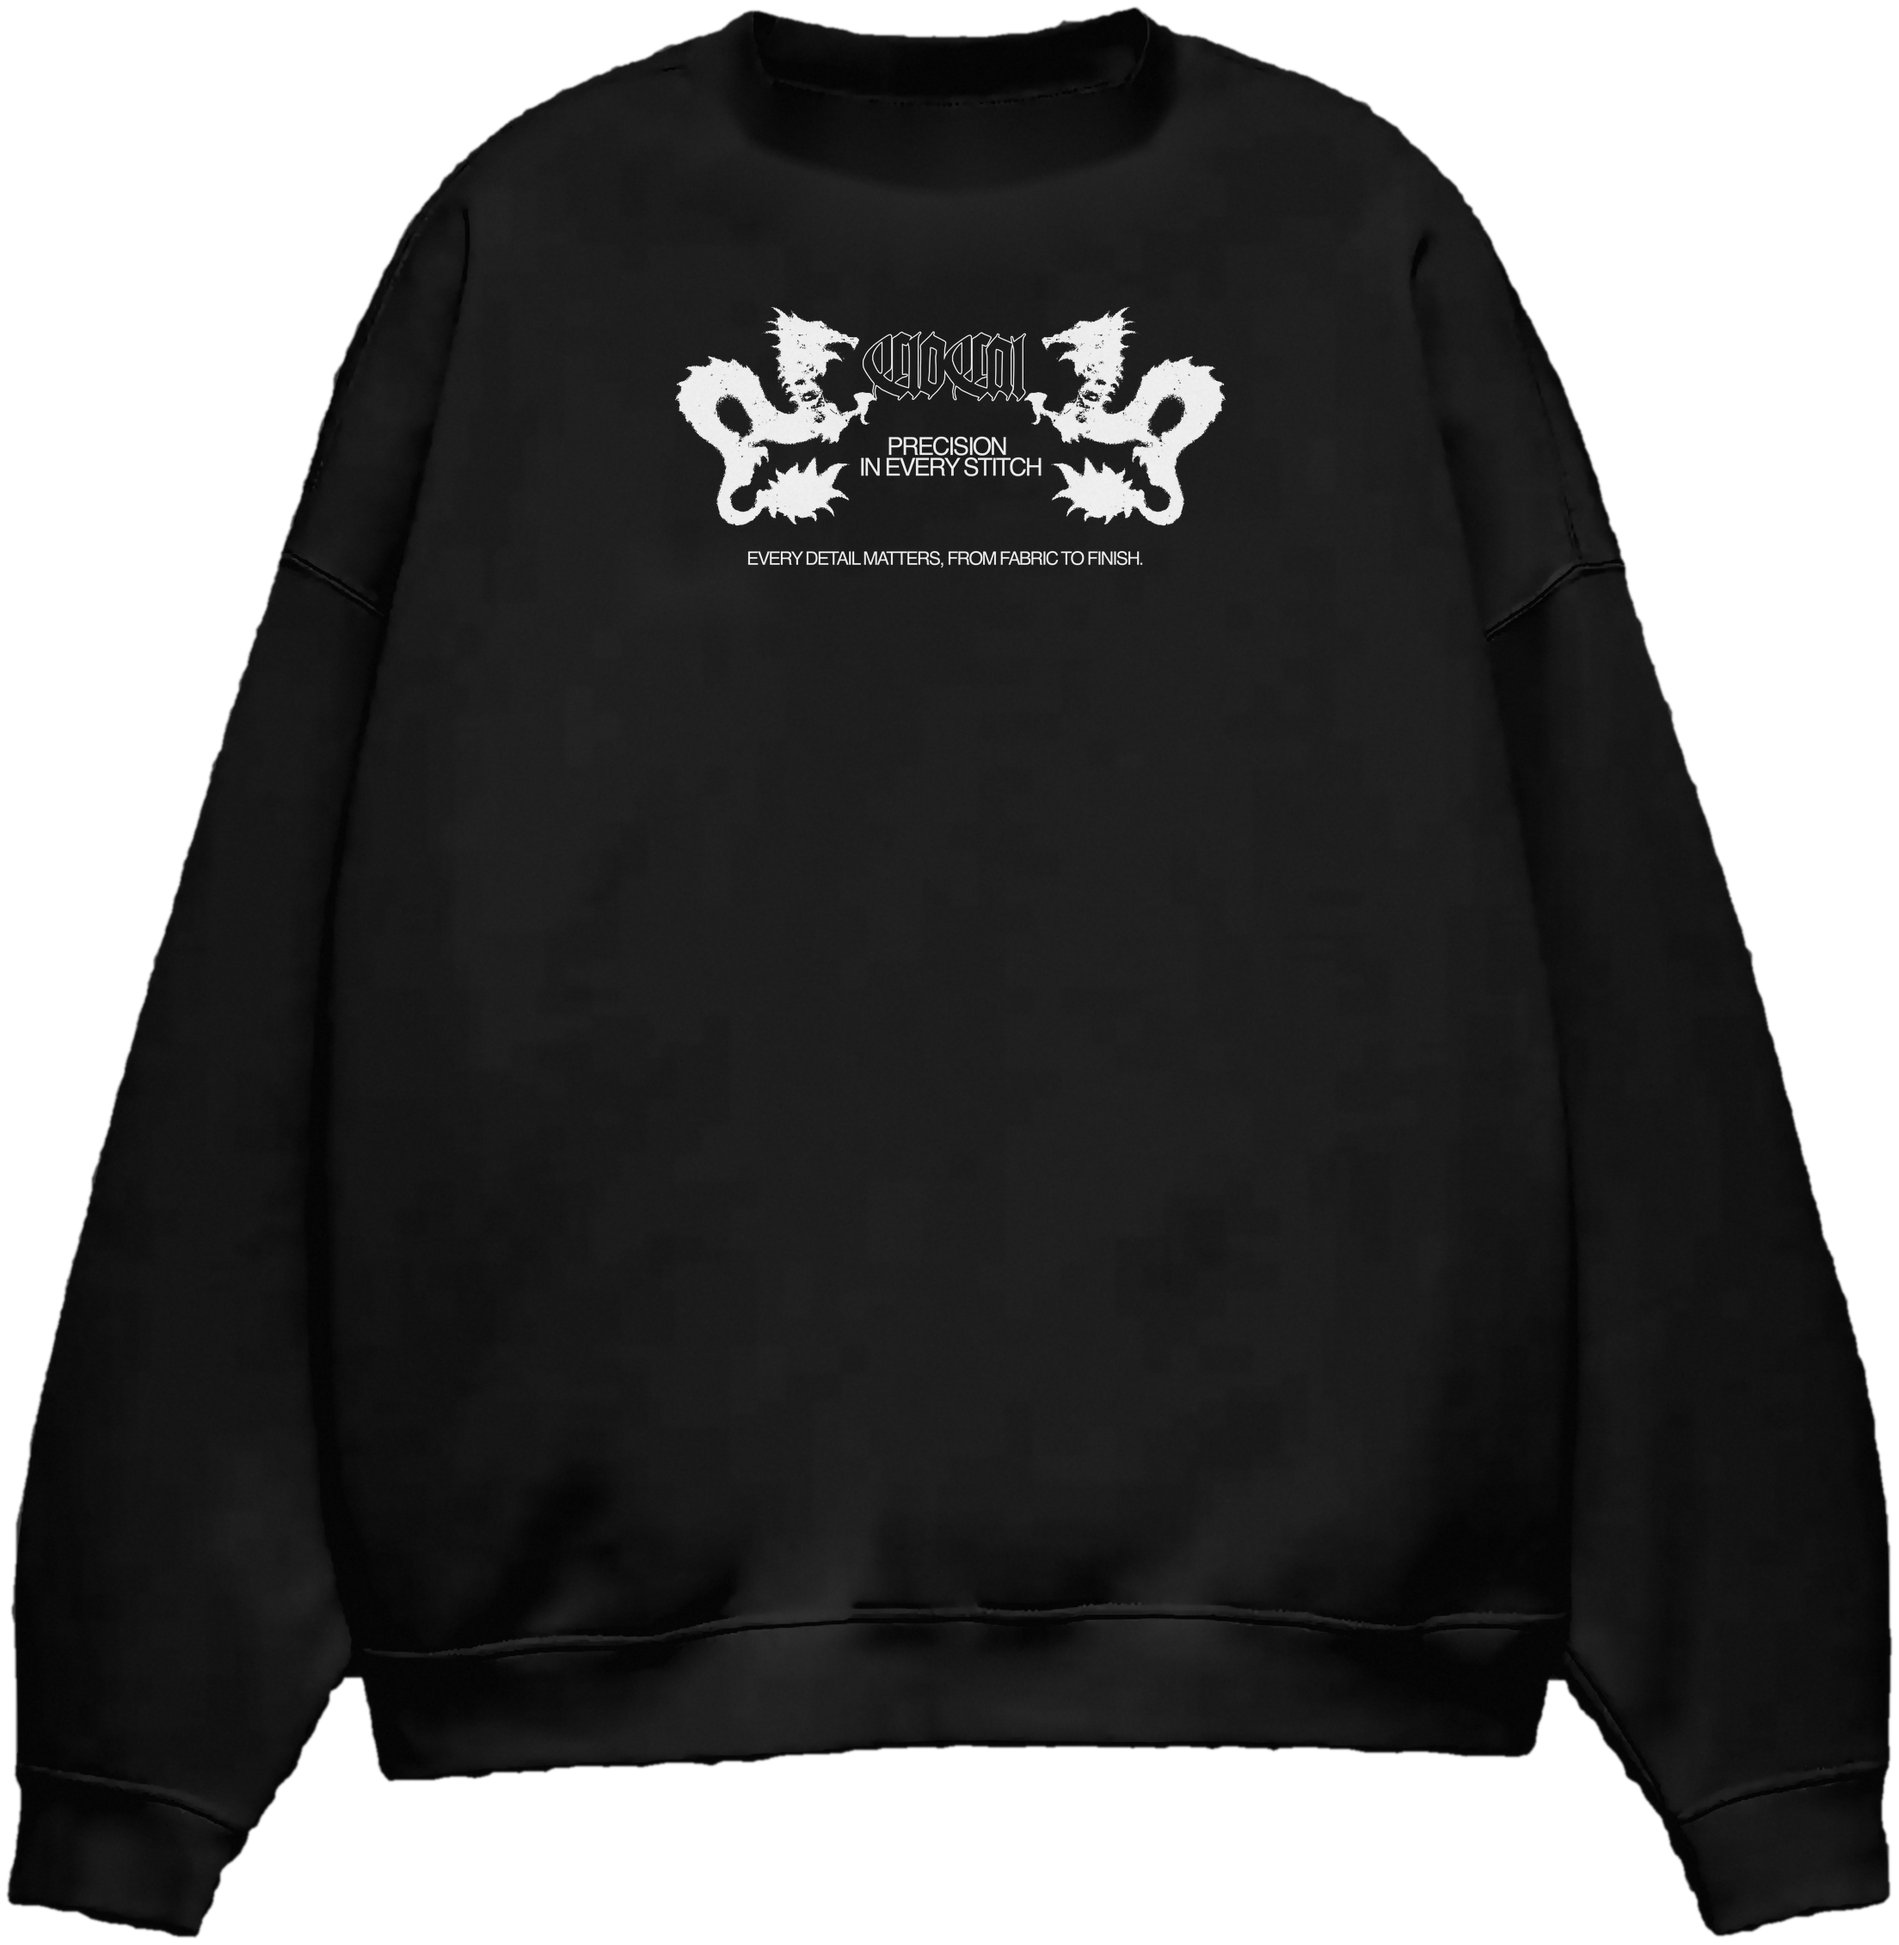
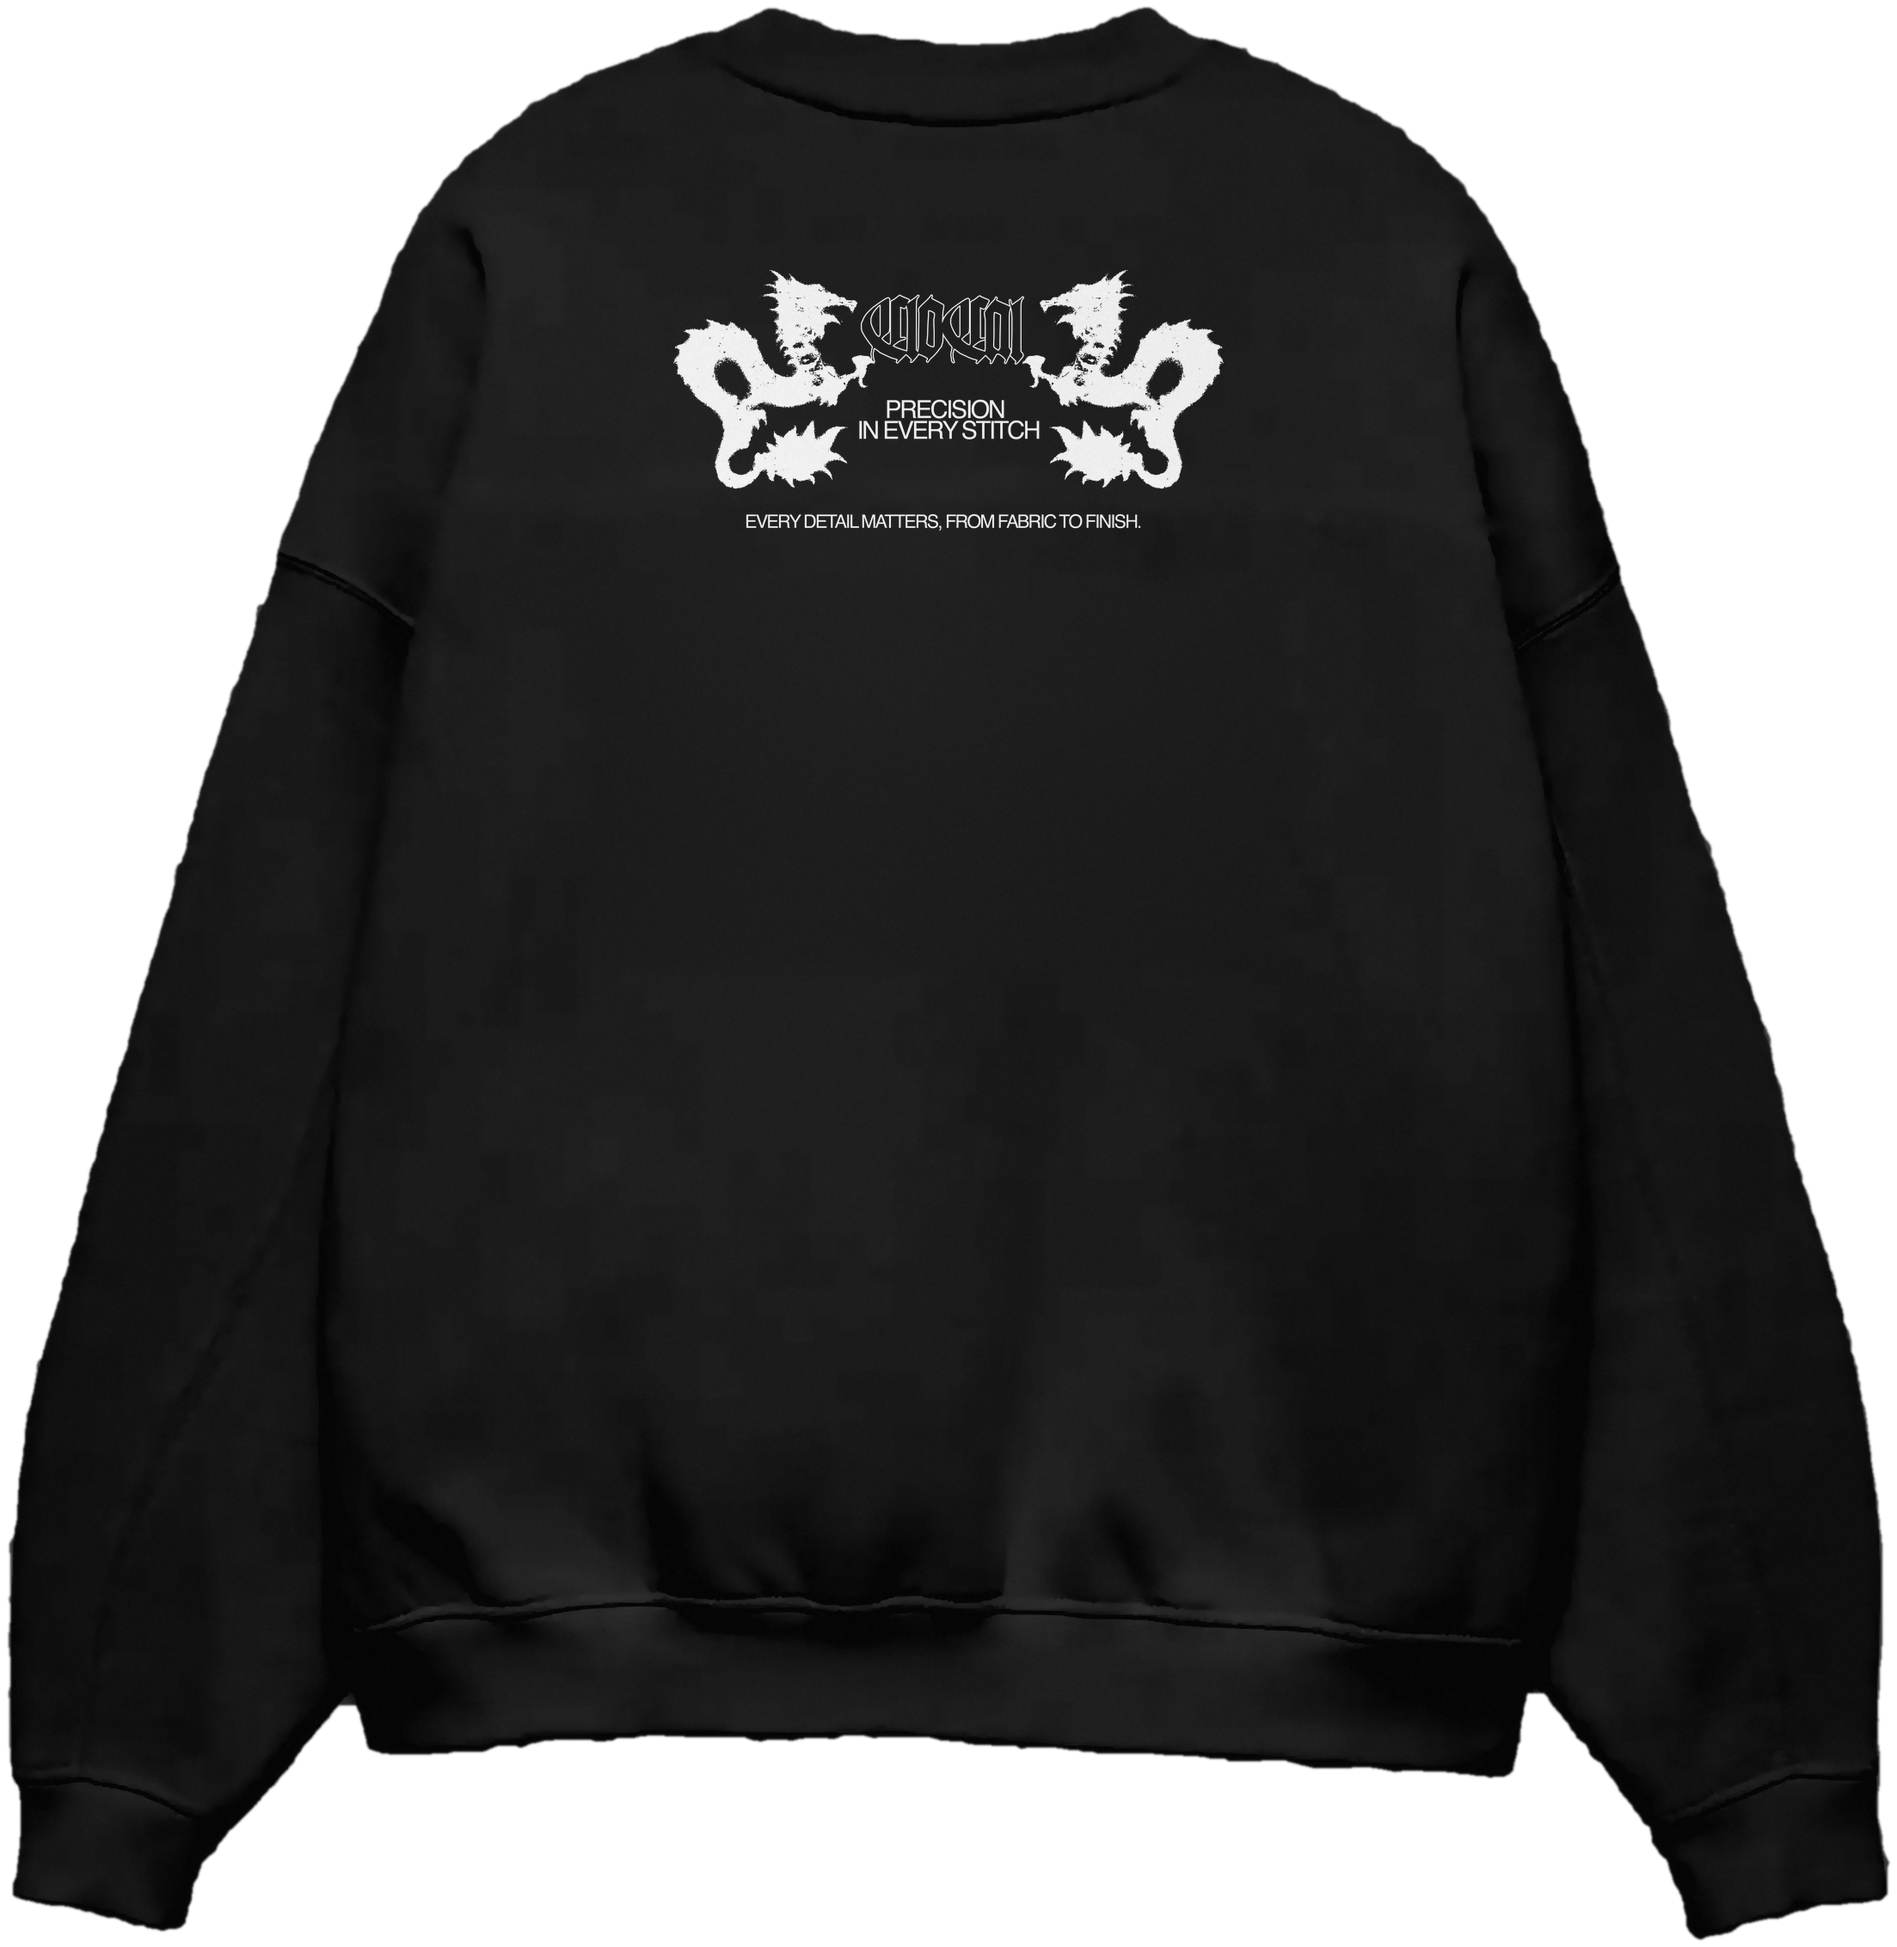
Rebuild back mockup from the supplied back flat-lay reference
Removes the reference embroidery (smooth fabric fill) and the back yoke
seam, which the real garment doesn't have; places the dragon back print.

Claude-Session: https://claude.ai/code/session_0134z9woteaCD6XRmPMXin1q

diff --git a/clocal-black-dragon-ads/size-chart/make_mockup.py b/clocal-black-dragon-ads/size-chart/make_mockup.py
@@ -1,8 +1,8 @@
 """Black Dragon Crewneck flat mockups (front and back) built from the reference flat-lay.
 
-VIEW=front (default) or VIEW=back.  Back view: the reference is a front flat-lay, so the neck
-opening (inner back neck + front rib) is closed with body fabric, the garment is mirrored, and
-the supplied back dragon artwork is placed centred under the collar as on the real garment.
+VIEW=front (default) or VIEW=back.  Back view uses the back flat-lay reference: its embroidery and
+the back yoke seam (not on the real garment) are removed, and the supplied back dragon artwork is
+placed centred under the collar as on the real garment.
 
 Recolours the reference garment to black while keeping its own folds/shading,
 removes the reference brand's chest embroidery and neck tag, then places the
@@ -19,7 +19,7 @@ from PIL import Image
 A = 'assets/'
 K = 2                              # work at 2x the reference resolution
 VIEW = os.environ.get('VIEW', 'front')
-BACK_W, BACK_TOP = 320, 580        # back print width / top edge (reference px)
+BACK_W, BACK_TOP = 320, 560        # back print width / top edge (reference px)
 # Placement (reference px, 1280x1920). Tunable from the command line for iteration.
 ART_SCALE = float(sys.argv[1]) if len(sys.argv) > 1 else 1.45   # px per unit of an 800-unit artwork
 ART_X = float(sys.argv[2]) if len(sys.argv) > 2 else -391        # artwork origin
@@ -28,7 +28,7 @@ SEAM_X = 292                       # left side seam: front print stops here
 COLLAR_Y, HEM_Y = 590, 1338        # print area between collar rib and hem rib
 AR_CX, AR_CY, AR_W = 794, 848, 150  # Arabic chest mark centre / width
 
-ref0 = np.array(Image.open(A + 'ref_crewneck_flat.webp').convert('RGB'))
+ref0 = np.array(Image.open(A + ('ref_crewneck_flat_back.webp' if VIEW == 'back' else 'ref_crewneck_flat.webp')).convert('RGB'))
 # Remove WebP block artefacts before upscaling, keeping folds and seams (edge-preserving).
 ref0 = cv2.bilateralFilter(ref0, 7, 10, 5)
 ref = cv2.resize(ref0, None, fx=K, fy=K, interpolation=cv2.INTER_CUBIC).astype(np.float32)
@@ -46,23 +46,32 @@ ff = mask.copy(); h2 = np.zeros((H + 2, W + 2), np.uint8)
 cv2.floodFill(ff, h2, (0, 0), 1)
 mask = mask | (1 - ff)                                  # fill interior holes
 
-# Remove the reference brand: chest embroidery (bright, low chroma) and the whole neck tag.
-fix = np.zeros((H, W), np.uint8)
-fix[712 * K:768 * K, 736 * K:836 * K] = 1                               # chest embroidery: whole patch
-tag = np.zeros((H, W), np.uint8)
-tag[466 * K:510 * K, 606 * K:678 * K] = 1                               # reference brand's woven neck label
+# Remove the reference brand (and, on the back, the yoke seam the real garment doesn't have).
 src = ref.clip(0, 255).astype(np.uint8)
+fix = np.zeros((H, W), np.uint8)
+if VIEW == 'front':
+    fix[712 * K:768 * K, 736 * K:836 * K] = 1                               # chest embroidery: whole patch
+    fix[466 * K:510 * K, 606 * K:678 * K] = 1                               # woven neck label
+else:
+    yoke = np.array([(332, 699), (380, 691), (460, 685), (620, 684), (740, 688), (820, 692),
+                     (900, 701), (945, 707), (968, 712)]) * K                # traced from the reference
+    cv2.polylines(fix, [yoke.astype(np.int32)], False, 1, 13 * K)           # back yoke seam
+clean = cv2.inpaint(src, (fix * 255).astype(np.uint8), 9 * K, cv2.INPAINT_TELEA).astype(np.float32)
 if VIEW == 'back':
-    # Close the neck opening: from the back only the collar band shows, body fabric below it.
-    neck = np.array([(498, 444), (532, 452), (560, 458), (600, 463), (640, 466), (680, 463), (720, 457),
-                     (748, 450), (784, 442), (796, 502), (752, 528), (720, 542), (680, 557), (640, 563),
-                     (600, 557), (560, 542), (528, 528), (486, 502)])
-    nm = np.zeros((H, W), np.uint8)
-    cv2.fillPoly(nm, [(neck * K).astype(np.int32)], 1)
-    fix |= cv2.dilate(nm, np.ones((5, 5), np.uint8))
-clean = cv2.inpaint(src, ((fix | tag) * 255).astype(np.uint8), 9 * K, cv2.INPAINT_TELEA).astype(np.float32)
-if VIEW == 'back':
-    clean, mask = clean[:, ::-1].copy(), mask[:, ::-1].copy()   # back of a flat-lay is the mirror image
+    # Back embroidery (incl. its emboss): fill with a smooth field from the surrounding fabric
+    # (normalised convolution) and feather it in, so no inpainting streaks appear.
+    hole = np.zeros((H, W), np.float32); hole[738 * K:968 * K, 432 * K:832 * K] = 1
+    keep = (1 - hole) * mask
+    # computed at 1/8 scale: the hole is large, so the field needs a wide radius to reach its centre
+    q = 8
+    small = lambda im: cv2.resize(im, (W // q, H // q), interpolation=cv2.INTER_AREA)
+    big = lambda im: cv2.resize(im, (W, H), interpolation=cv2.INTER_CUBIC)
+    sig = 90 * K / q
+    den = cv2.GaussianBlur(small(keep), (0, 0), sig)
+    feather = cv2.GaussianBlur(hole, (0, 0), 6 * K)
+    for c in range(3):
+        fill = big(cv2.GaussianBlur(small(clean[..., c] * keep), (0, 0), sig) / np.maximum(den, 1e-3))
+        clean[..., c] = clean[..., c] * (1 - feather) + fill * feather
 Lc = 0.299 * clean[..., 0] + 0.587 * clean[..., 1] + 0.114 * clean[..., 2]
 Lc = cv2.bilateralFilter(Lc.astype(np.float32), 9, 4, 6)   # smooth fabric, keep seams
 
